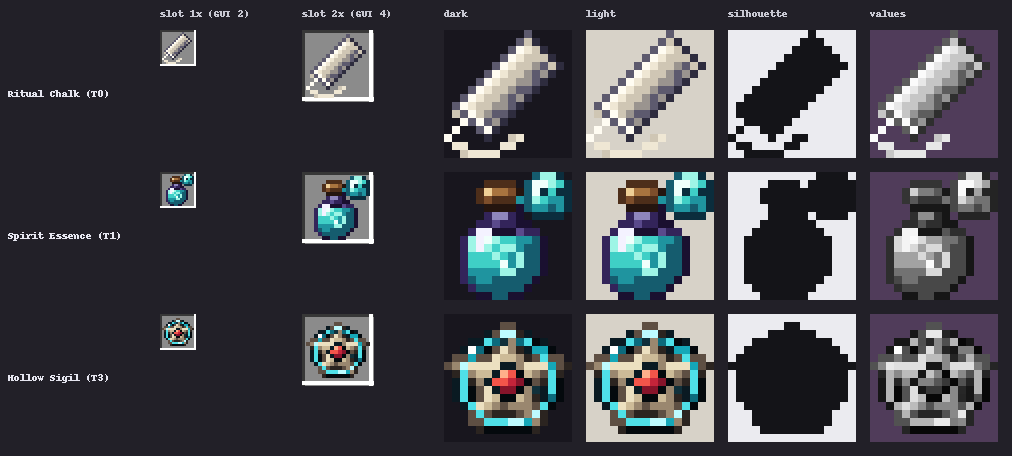
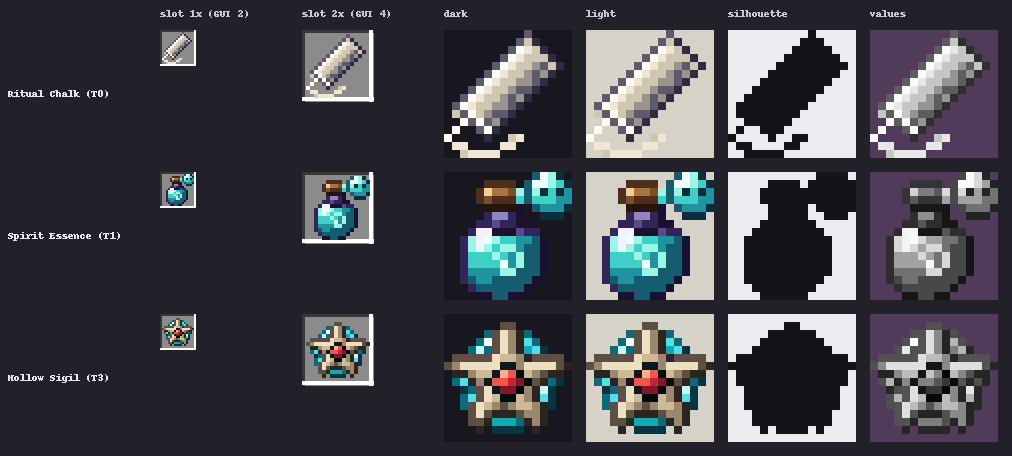
Art session A: keep v2 sigil and essence, v4 chalk (user review)

diff --git a/tools/art/session_a.py b/tools/art/session_a.py
@@ -66,13 +66,12 @@ def spirit_essence():
     # glass glint
     icon.pixels([(4, 8), (4, 9), (5, 7)], RAMPS["glass"][5])
     # the spirit escaping round the cork: a thick tendril rising right into a little ghost
-    # tail: thickest near the ghost, thinning down into the cork
-    icon.pixels([(9, 3), (10, 4)], RAMPS["spirit"][2])
-    icon.pixels([(10, 3), (11, 3), (11, 4)], RAMPS["spirit"][3])
-    ghost = icon.sphere(13.0, 2.7, 2.5, squash=0.9)
-    icon.paint(ghost, RAMPS["spirit"], bias=0.28)
+    # (chosen: v2) a short tendril into a round little ghost
+    icon.pixels([(9, 3), (10, 3), (10, 2), (11, 2)], RAMPS["spirit"][3])
+    icon.pixels([(9, 2), (10, 1)], RAMPS["spirit"][4])
+    ghost = icon.sphere(13.3, 2.6, 2.4)
+    icon.paint(ghost, RAMPS["spirit"], bias=0.25)
     icon.pixels([(12, 2), (14, 2)], RAMPS["spirit"][0])
-    icon.pixels([(13, 4)], RAMPS["spirit"][1])
     return icon
 
 
@@ -87,13 +86,11 @@ def star_points(cx, cy, r_out, r_in, n=5, rot=-math.pi / 2):
 
 def hollow_sigil():
     icon = Icon(16)
+    # (chosen: v2) the bold star sits on top of a glowing ring
+    ring = icon.ring(8.0, 8.4, 5.6, 4.5)
+    icon.paint(ring, RAMPS["hollowcy"], bias=0.05)
     star = icon.polygon(star_points(8.0, 8.4, 7.7, 3.0), bevel=1.3)
-    icon.paint(star, RAMPS["bone"], bias=0.05)
-    # the pentacle's circle runs across the arms, glowing hollow-cyan
-    ring = icon.ring(8.0, 8.4, 6.0, 5.1)
-    icon.paint(ring, RAMPS["hollowcy"], bias=0.1, outline_ramp=RAMPS["sculk"], outline_over=False)
-    # sculk cracks in the old bone
-    icon.pixels([(7, 3), (11, 9)], RAMPS["sculk"][2])
+    icon.paint(star, RAMPS["bone"], bias=0.1)
     core = icon.sphere(8.0, 8.6, 1.7)
     icon.paint(core, RAMPS["crimson"], bias=0.2, outline_ramp=RAMPS["sculk"])
     return icon

diff --git a/docs/art/SESSIONS.md b/docs/art/SESSIONS.md
@@ -5,7 +5,7 @@ Style rules and the checklist: [STYLE.md](STYLE.md). Plan: [../visual-overhaul.m
 
 | Session | Content | Status |
 |---|---|---|
-| **A** | Style guide, toolkit, 3 test icons (Ritual Chalk, Spirit Essence, Hollow Sigil) | **Done** - awaiting review |
+| **A** | Style guide, toolkit, 3 test icons (Ritual Chalk, Spirit Essence, Hollow Sigil) | **Done** - reviewed |
 | B | Sigils and glyphs: pentagram, hexagram, tier sigils, 24 runes, footprints, crown pieces (64/128 px, exactly symmetric) | Next |
 | C | Tier-0 item icons | - |
 | D | Tier-1 item icons | - |
@@ -48,7 +48,13 @@ Style rules and the checklist: [STYLE.md](STYLE.md). Plan: [../visual-overhaul.m
   carry everything (lesson for sessions C-F).
 - The ghost's face is two dark pixels; it works, but faces at this size are fragile.
 
+**Review (user):** v2 was the best overall - keep the v2 Hollow Sigil (bold star on a glowing ring) and the v2 Spirit
+Essence (round little ghost); take the v4 Ritual Chalk. Final set: `review-final.png`.
+
 **Lessons carried forward**
+- A bold, simple silhouette beats a "correct" symbol: the badge-like star was preferred over the literal pentacle
+  (circle across the arms). Favour striking shapes over symbolic accuracy.
+- My own checklist judged v3/v4 better than the user did - when two versions both pass, show both and let the user pick.
 - Build the silhouette first, then shade; check it in the silhouette column before adding detail.
 - Avoid accessories that change what an object *is* (the twine made chalk into a scroll).
 - Outlines must never cross other parts.

diff --git a/docs/art/STYLE.md b/docs/art/STYLE.md
@@ -4,6 +4,8 @@ The look we aim for: chunky, readable, lightly hand-made pixel art in the spirit
 designs, never copied art.
 
 ## Rules
+0. **Bold beats literal.** A striking, simple shape wins over an accurate symbol (the Hollow Sigil's bold star was
+   preferred to a "proper" pentacle).
 1. **Silhouette first.** Every icon has a shape you can recognise filled solid black. A flask is not enough - the Spirit
    Essence's flask has a ghost escaping it.
 2. **Readable at 1x** (16 px in an inventory slot). Details that blur into a blob at 1x are cut or simplified - a
